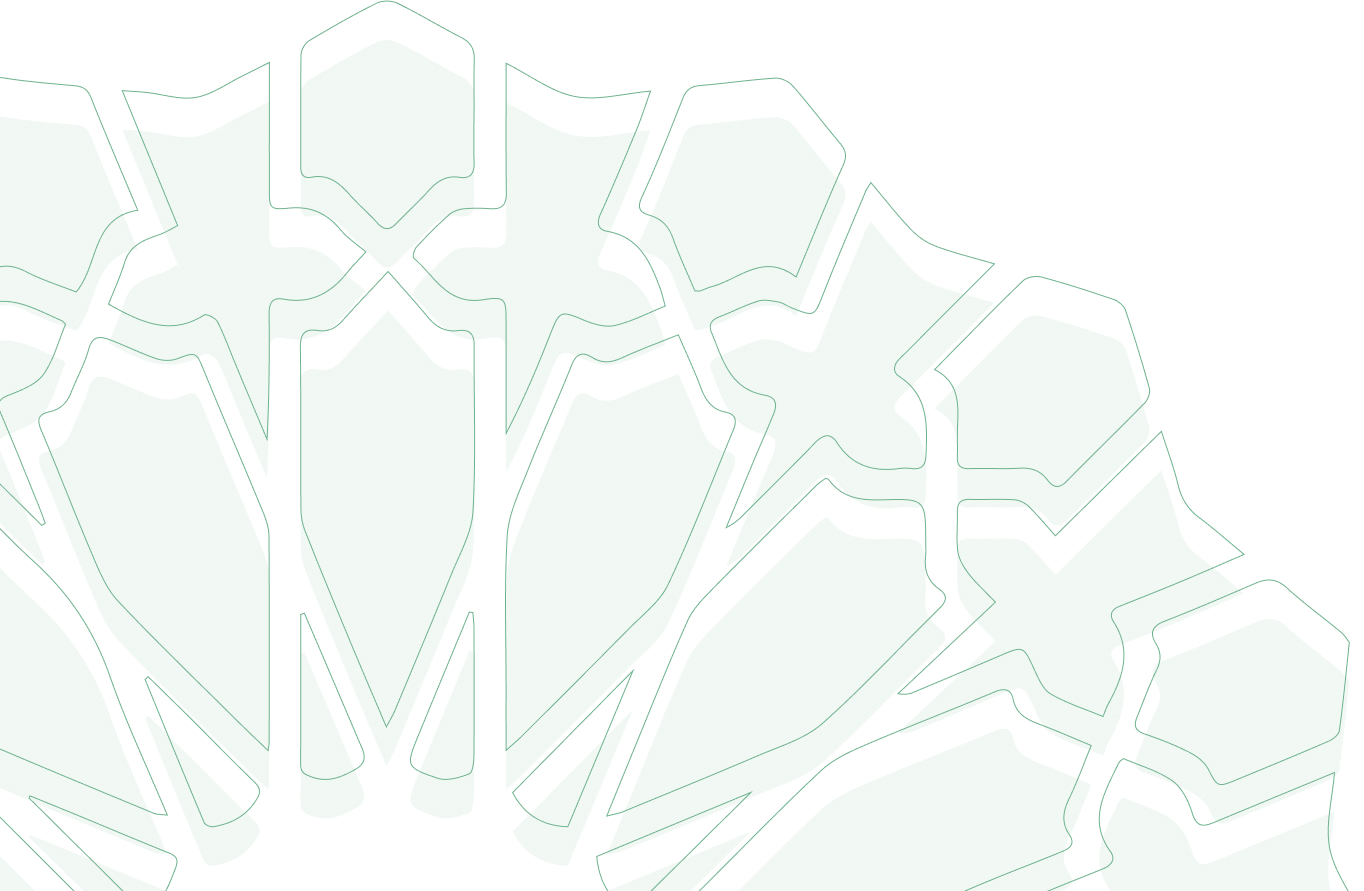
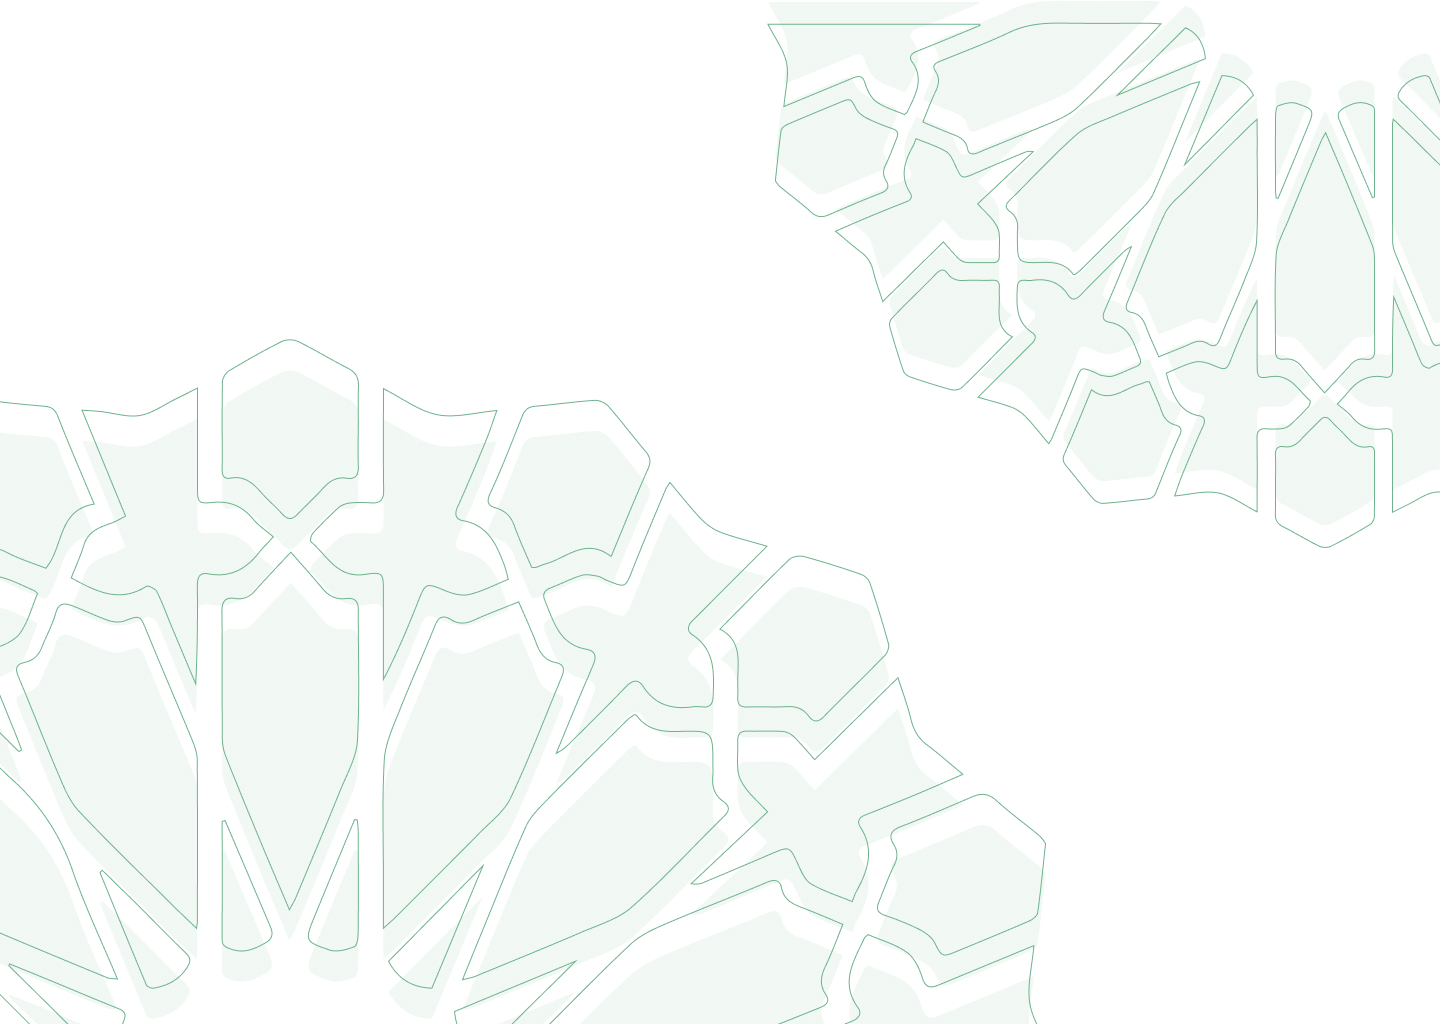
update style.css

diff --git a/frontend/src/style.css b/frontend/src/style.css
@@ -14,7 +14,7 @@ body {
     background: rgba(255, 255, 255, 0.5) url("./assets/images/bg.jpg") no-repeat;
     background-size: 100% auto;
     background-attachment: fixed;
-    background-position: center bottom;
+    background-position: left bottom;
 }
 
 @media (max-width: 1000px) {